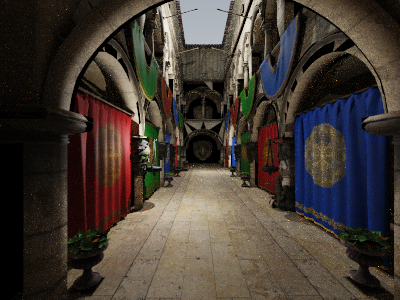
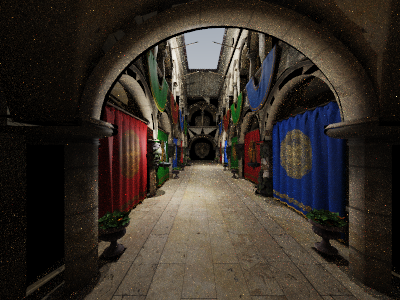
Move code from Main.cpp into Core Applicaton class

diff --git a/Silmaril/src/Silmaril/Geometry/BVH.cpp b/Silmaril/src/Silmaril/Geometry/BVH.cpp
@@ -4,6 +4,13 @@ namespace Silmaril {
 
     namespace {
 
+        struct BVHBuildStats
+        {
+            usize nodes { 0 };
+            usize leaves { 0 };
+            usize depth { 0 };
+        };
+
         glm::vec3 GetCentroid(const AABB& bbox)
         {
             return glm::vec3(
@@ -11,6 +18,52 @@ namespace Silmaril {
                 (bbox.y.min + bbox.y.max) * 0.5f,
                 (bbox.z.min + bbox.z.max) * 0.5f
             );
+        }
+
+        std::shared_ptr<Primitive> BuildBVH(std::vector<std::shared_ptr<Primitive>> primitives, usize depth, BVHBuildStats& stats)
+        {
+            stats.depth = std::max(stats.depth, depth);
+
+            if (primitives.empty()) return nullptr;
+            if (primitives.size() == 1) {
+                stats.leaves += 1;
+                return primitives[0];
+            }
+
+            stats.nodes += 1;
+
+            AABB centroidBounds;
+            for (const auto& p : primitives) {
+                glm::vec3 c = GetCentroid(p->GetBound());
+                centroidBounds = AABB(centroidBounds, AABB(c, c));
+            }
+
+            i32 axis = 0;
+            f32 maxExtent = centroidBounds.x.Size();
+            if (centroidBounds.y.Size() > maxExtent) {
+                axis = 1;
+                maxExtent = centroidBounds.y.Size();
+            }
+            if (centroidBounds.z.Size() > maxExtent) {
+                axis = 2;
+            }
+
+            usize mid = primitives.size() / 2;
+            std::nth_element(primitives.begin(), primitives.begin() + mid, primitives.end(),
+                [&](const auto& a, const auto& b) -> bool {
+                    glm::vec3 ca = GetCentroid(a->GetBound());
+                    glm::vec3 cb = GetCentroid(b->GetBound());
+                    return ca[axis] < cb[axis];
+                }
+            );
+
+            std::vector<std::shared_ptr<Primitive>> leftPrims(primitives.begin(), primitives.begin() + mid);
+            std::vector<std::shared_ptr<Primitive>> rightPrims(primitives.begin() + mid, primitives.end());
+
+            auto left = BuildBVH(leftPrims, depth + 1, stats);
+            auto right = BuildBVH(rightPrims, depth + 1, stats);
+
+            return std::make_shared<BVH>(left, right);
         }
     
     }
@@ -67,38 +120,17 @@ namespace Silmaril {
 
     std::shared_ptr<Primitive> BVH::Create(std::vector<std::shared_ptr<Primitive>> primitives)
     {
-        if (primitives.empty()) return nullptr;
-        if (primitives.size() == 1) return primitives[0];
+        BVHBuildStats stats;
 
-        AABB centroidBounds;
-        for (const auto& p : primitives) {
-            glm::vec3 c = GetCentroid(p->GetBound());
-            centroidBounds = AABB(centroidBounds, AABB(c, c));
-        }
+        auto root = BuildBVH(primitives, 0, stats);
 
-        i32 axis = 0;
-        f32 maxExtent = centroidBounds.x.Size();
-        if (centroidBounds.y.Size() > maxExtent) {
-            axis = 1;
-            maxExtent = centroidBounds.y.Size();
-        }
-        if (centroidBounds.z.Size() > maxExtent) {
-            axis = 2;
-        }
+        std::println("BVH Construction Metrics");
+        std::println(" - Total Primitives: {}", primitives.size());
+        std::println(" - Internal Nodes: {}", stats.nodes);
+        std::println(" - Leaf Nodes: {}", stats.leaves);
+        std::println(" - Max Tree Depth: {}", stats.depth);
 
-        usize mid = primitives.size() / 2;
-        std::nth_element(primitives.begin(), primitives.begin() + mid, primitives.end(),
-            [&](const auto& a, const auto& b) -> bool {
-                glm::vec3 ca = GetCentroid(a->GetBound());
-                glm::vec3 cb = GetCentroid(b->GetBound());
-                return ca[axis] < cb[axis];
-            }
-        );
-
-        std::vector<std::shared_ptr<Primitive>> lPrims(primitives.begin(), primitives.begin() + mid);
-        std::vector<std::shared_ptr<Primitive>> rPrims(primitives.begin() + mid, primitives.end());
-
-        return std::make_shared<BVH>(Create(lPrims), Create(rPrims));
+        return root;
     }
 
 }

diff --git a/Silmaril/src/Silmaril/Core/Application.cpp b/Silmaril/src/Silmaril/Core/Application.cpp
@@ -1,0 +1,105 @@
+#include "Application.hpp"
+
+#include <glm/gtx/string_cast.hpp>
+
+#include "Silmaril/Cameras/PerspectiveCamera.hpp"
+#include "Silmaril/Samplers/RandomSampler.hpp"
+#include "Silmaril/Integrators/RandomWalkIntegrator.hpp"
+
+#include "Silmaril/Loaders/ModelLoader.hpp"
+#include "Silmaril/Geometry/GeometricPrimitive.hpp"
+#include "Silmaril/Geometry/Sphere.hpp"
+#include "Silmaril/Geometry/BVH.hpp"
+#include "Silmaril/Materials/MatteMaterial.hpp"
+#include "Silmaril/Lights/PointLight.hpp"
+
+namespace Silmaril {
+
+    Application::Application(const Config& config)
+        : m_Config(config)
+    {
+        InitializeIntegrator();
+
+        std::println("Integrator Settings");
+        std::println(" - Resolution: {}x{}", m_Config.width, m_Config.height);
+        std::println(" - samples:    {}", m_Config.samples);
+        std::println(" - depth:      {}", m_Config.depth);
+
+        std::println("Camera Settings:");
+        std::println(" - Position:   {}", glm::to_string(m_Config.lookfrom));
+        std::println(" - LookAt:     {}", glm::to_string(m_Config.lookat));
+        std::println(" - FOV:        {:.2f}", m_Config.fov);
+
+        InitializeScene();
+    }
+
+    Application::~Application()
+    {
+    }
+
+    void Application::Run()
+    {
+        auto renderStart = std::chrono::steady_clock::now();
+        m_Integrator->Render(*m_Scene);
+        auto renderEnd = std::chrono::steady_clock::now();
+
+        std::chrono::duration<f64> timeRender = renderEnd - renderStart;
+        std::println("Total Execution Time (Render + Save): {:.4f} seconds", timeRender.count());
+    }
+
+    void Application::InitializeIntegrator()
+    {
+        std::println("Initializing Integrator...");
+
+        m_Film = std::make_shared<Film>(m_Config.width, m_Config.height);
+
+        m_Camera = std::make_shared<PerspectiveCamera>(
+            m_Film,
+            m_Config.lookfrom,
+            m_Config.lookat,
+            m_Config.up,
+            m_Config.fov
+        );
+
+        m_Sampler = std::make_shared<RandomSampler>(m_Config.samples);
+
+        m_Integrator = std::make_unique<RandomWalkIntegrator>(m_Camera, m_Sampler, m_Config.depth);
+    }
+
+    void Application::InitializeScene()
+    {
+        std::println("Initializing Scene...");
+
+        std::vector<std::shared_ptr<Primitive>> primitives;
+        std::vector<std::shared_ptr<Light>> lights;
+
+        auto model = ModelLoader::LoadOBJ("Assets/Sponza/sponza.obj");
+        if (model) {
+            auto modelPrimitives = model->CreatePrimitives();
+            primitives.insert(primitives.end(), modelPrimitives.begin(), modelPrimitives.end());
+        } else {
+            std::println(std::cerr, "Model not loaded, falling back to sphere");
+
+            auto sphere = std::make_shared<Sphere>(glm::vec3(0.0f, 1.0f, 0.0f), 1.0f);
+            primitives.push_back(std::make_shared<GeometricPrimitive>(sphere, std::make_shared<MatteMaterial>(glm::vec3(0.75f))));
+        }
+
+        std::println("Building aggregate BVH...");
+        auto BVHStart = std::chrono::steady_clock::now();
+        auto bvh = BVH::Create(primitives);
+        auto BVHEnd = std::chrono::steady_clock::now();
+
+        std::chrono::duration<f64> timeBVH = BVHEnd - BVHStart;
+        std::println("BVH built in {:.4f} seconds", timeBVH.count());
+
+        lights.push_back(std::make_shared<PointLight>(glm::vec3(0.0f, 800.0f, 0.0f), glm::vec3(500000.0f)));
+        lights.push_back(std::make_shared<PointLight>(glm::vec3( 500.0f, 200.0f,  100.0f), glm::vec3(100000.0f)));
+        lights.push_back(std::make_shared<PointLight>(glm::vec3(-500.0f, 200.0f, -100.0f), glm::vec3(100000.0f)));
+
+        std::println("Total Primitives: {}", primitives.size());
+        std::println("Total Lights: {}", lights.size());
+
+        m_Scene = std::make_unique<Scene>(bvh, lights);
+    }
+
+}

diff --git a/Silmaril/src/Silmaril/Main.cpp b/Silmaril/src/Silmaril/Main.cpp
@@ -1,92 +1,21 @@
-#include <glm/glm.hpp>
-
-#include "Cameras/Film.hpp"
-#include "Cameras/PerspectiveCamera.hpp"
-#include "Integrators/RandomWalkIntegrator.hpp"
-#include "Scene/Scene.hpp"
-
-#include "Geometry/GeometricPrimitive.hpp"
-#include "Geometry/Sphere.hpp"
-#include "Geometry/Model.hpp"
-#include "Geometry/BVH.hpp"
-
-#include "Materials/MatteMaterial.hpp"
-#include "Lights/PointLight.hpp"
-#include "Samplers/RandomSampler.hpp"
-
-#include "Loaders/ModelLoader.hpp"
+#include "Core/Application.hpp"
 
 int main()
 {
-    using namespace Silmaril;
+    Silmaril::Application* app = new Silmaril::Application({
+        .width = 400,
+        .height = 300,
+        .samples = 32,
+        .depth = 8,
 
-    u32 width = 400;
-    u32 height = 300;
-    u32 samples = 64;
-    u32 depth = 8;
+        .model = "Assets/Sponza/sponza.obj",
 
-    std::println("Initializing Scene...");
+        .lookfrom = { 1100.0f, 180.0f, 0.0f },
+        .lookat = { 0.0f, 180.0f, 0.0f },
+        .up = { 0.0f, 1.0f, 0.0f },
+        .fov = 90.0f
+    });
 
-    std::vector<std::shared_ptr<Primitive>> primitives;
-    std::vector<std::shared_ptr<Light>> lights;
-
-    auto model = ModelLoader::LoadOBJ("Assets/Sponza/sponza.obj");
-    if (model) {
-        auto modelPrimitives = model->CreatePrimitives();
-        primitives.insert(primitives.end(), modelPrimitives.begin(), modelPrimitives.end());
-    } else {
-        std::println(std::cerr, "Model not loaded, falling back to sphere");
-
-        auto sphere = std::make_shared<Sphere>(glm::vec3(0.0f, 1.0f, 0.0f), 1.0f);
-        primitives.push_back(std::make_shared<GeometricPrimitive>(sphere, std::make_shared<MatteMaterial>(glm::vec3(0.75f))));
-    }
-
-    std::println("Total Primitives: {}", primitives.size());
-
-    std::println("Building BVH...");
-    auto startBVH = std::chrono::steady_clock::now();
-
-    auto bvh = BVH::Create(primitives);
-
-    auto endBVH = std::chrono::steady_clock::now();
-    std::chrono::duration<double> timeBVH = endBVH - startBVH;
-    std::println("BVH built in {:.4f} seconds", timeBVH.count());
-
-    lights.push_back(std::make_shared<PointLight>(glm::vec3(0.0f, 800.0f, 0.0f), glm::vec3(500000.0f)));
-    lights.push_back(std::make_shared<PointLight>(glm::vec3( 500.0f, 200.0f,  100.0f), glm::vec3(100000.0f)));
-    lights.push_back(std::make_shared<PointLight>(glm::vec3(-500.0f, 200.0f, -100.0f), glm::vec3(100000.0f)));
-
-    std::println("Total Lights: {}", lights.size());
-
-    Scene scene(bvh, lights);
-
-    auto film = std::make_shared<Film>(width, height);
-
-    glm::vec3 lookfrom(1100.0f, 180.0f, 0.0f);
-    glm::vec3 lookat(0.0f, 180.0f, 0.0f);
-    glm::vec3 up(0.0f, 1.0f, 0.0f);
-    f32 fov = 75.0f;
-
-    auto camera = std::make_shared<PerspectiveCamera>(film, lookfrom, lookat, up, fov);
-
-    std::println("Camera Settings:");
-    std::println(" - Position: ({}, {}, {})", lookfrom.x, lookfrom.y, lookfrom.z);
-    std::println(" - LookAt:   ({}, {}, {})", lookat.x, lookat.y, lookat.z);
-    std::println(" - FOV:      {}", fov);
-
-    auto sampler = std::make_shared<RandomSampler>(samples);
-
-    std::println("Starting render");
-    std::println(" - Resolution: {}x{}", width, height);
-    std::println(" - samples:    {}", samples);
-    std::println(" - depth:      {}", depth);
-
-    RandomWalkIntegrator integrator(camera, sampler, depth);
-
-    auto startRender = std::chrono::steady_clock::now();
-    integrator.Render(scene);
-    auto endRender = std::chrono::steady_clock::now();
-    std::chrono::duration<double> timeRender = endRender - startRender;
-
-    std::println("Total Execution Time (Render + Save): {:.4f} seconds", timeRender.count());
+    app->Run();
+    delete app;
 }

diff --git a/Silmaril/src/Silmaril/Core/Application.hpp b/Silmaril/src/Silmaril/Core/Application.hpp
@@ -1,0 +1,52 @@
+#pragma once
+
+#include "Silmaril/Cameras/Film.hpp"
+#include "Silmaril/Cameras/Camera.hpp"
+#include "Silmaril/Samplers/Sampler.hpp"
+#include "Silmaril/Integrators/Integrator.hpp"
+#include "Silmaril/Scene/Scene.hpp"
+
+namespace Silmaril {
+
+    class Application
+    {
+    public:
+        struct Config
+        {
+            u32 width;
+            u32 height;
+            u32 samples;
+            u32 depth;
+
+            std::string model;
+
+            glm::vec3 lookfrom;
+            glm::vec3 lookat;
+            glm::vec3 up;
+            f32 fov;
+        };
+
+    public:
+        Application(const Config& config);
+        ~Application();
+
+        void Run();
+
+    private:
+        void InitializeIntegrator();
+        void InitializeScene();
+
+    private:
+        Config m_Config;
+
+        std::shared_ptr<Film> m_Film;
+        std::shared_ptr<Camera> m_Camera;
+        std::shared_ptr<Sampler> m_Sampler;
+        std::unique_ptr<Integrator> m_Integrator;
+
+        std::vector<std::shared_ptr<Primitive>> m_Primitives;
+        std::vector<std::shared_ptr<Light>> m_Lights;
+        std::unique_ptr<Scene> m_Scene;
+    };
+
+}
